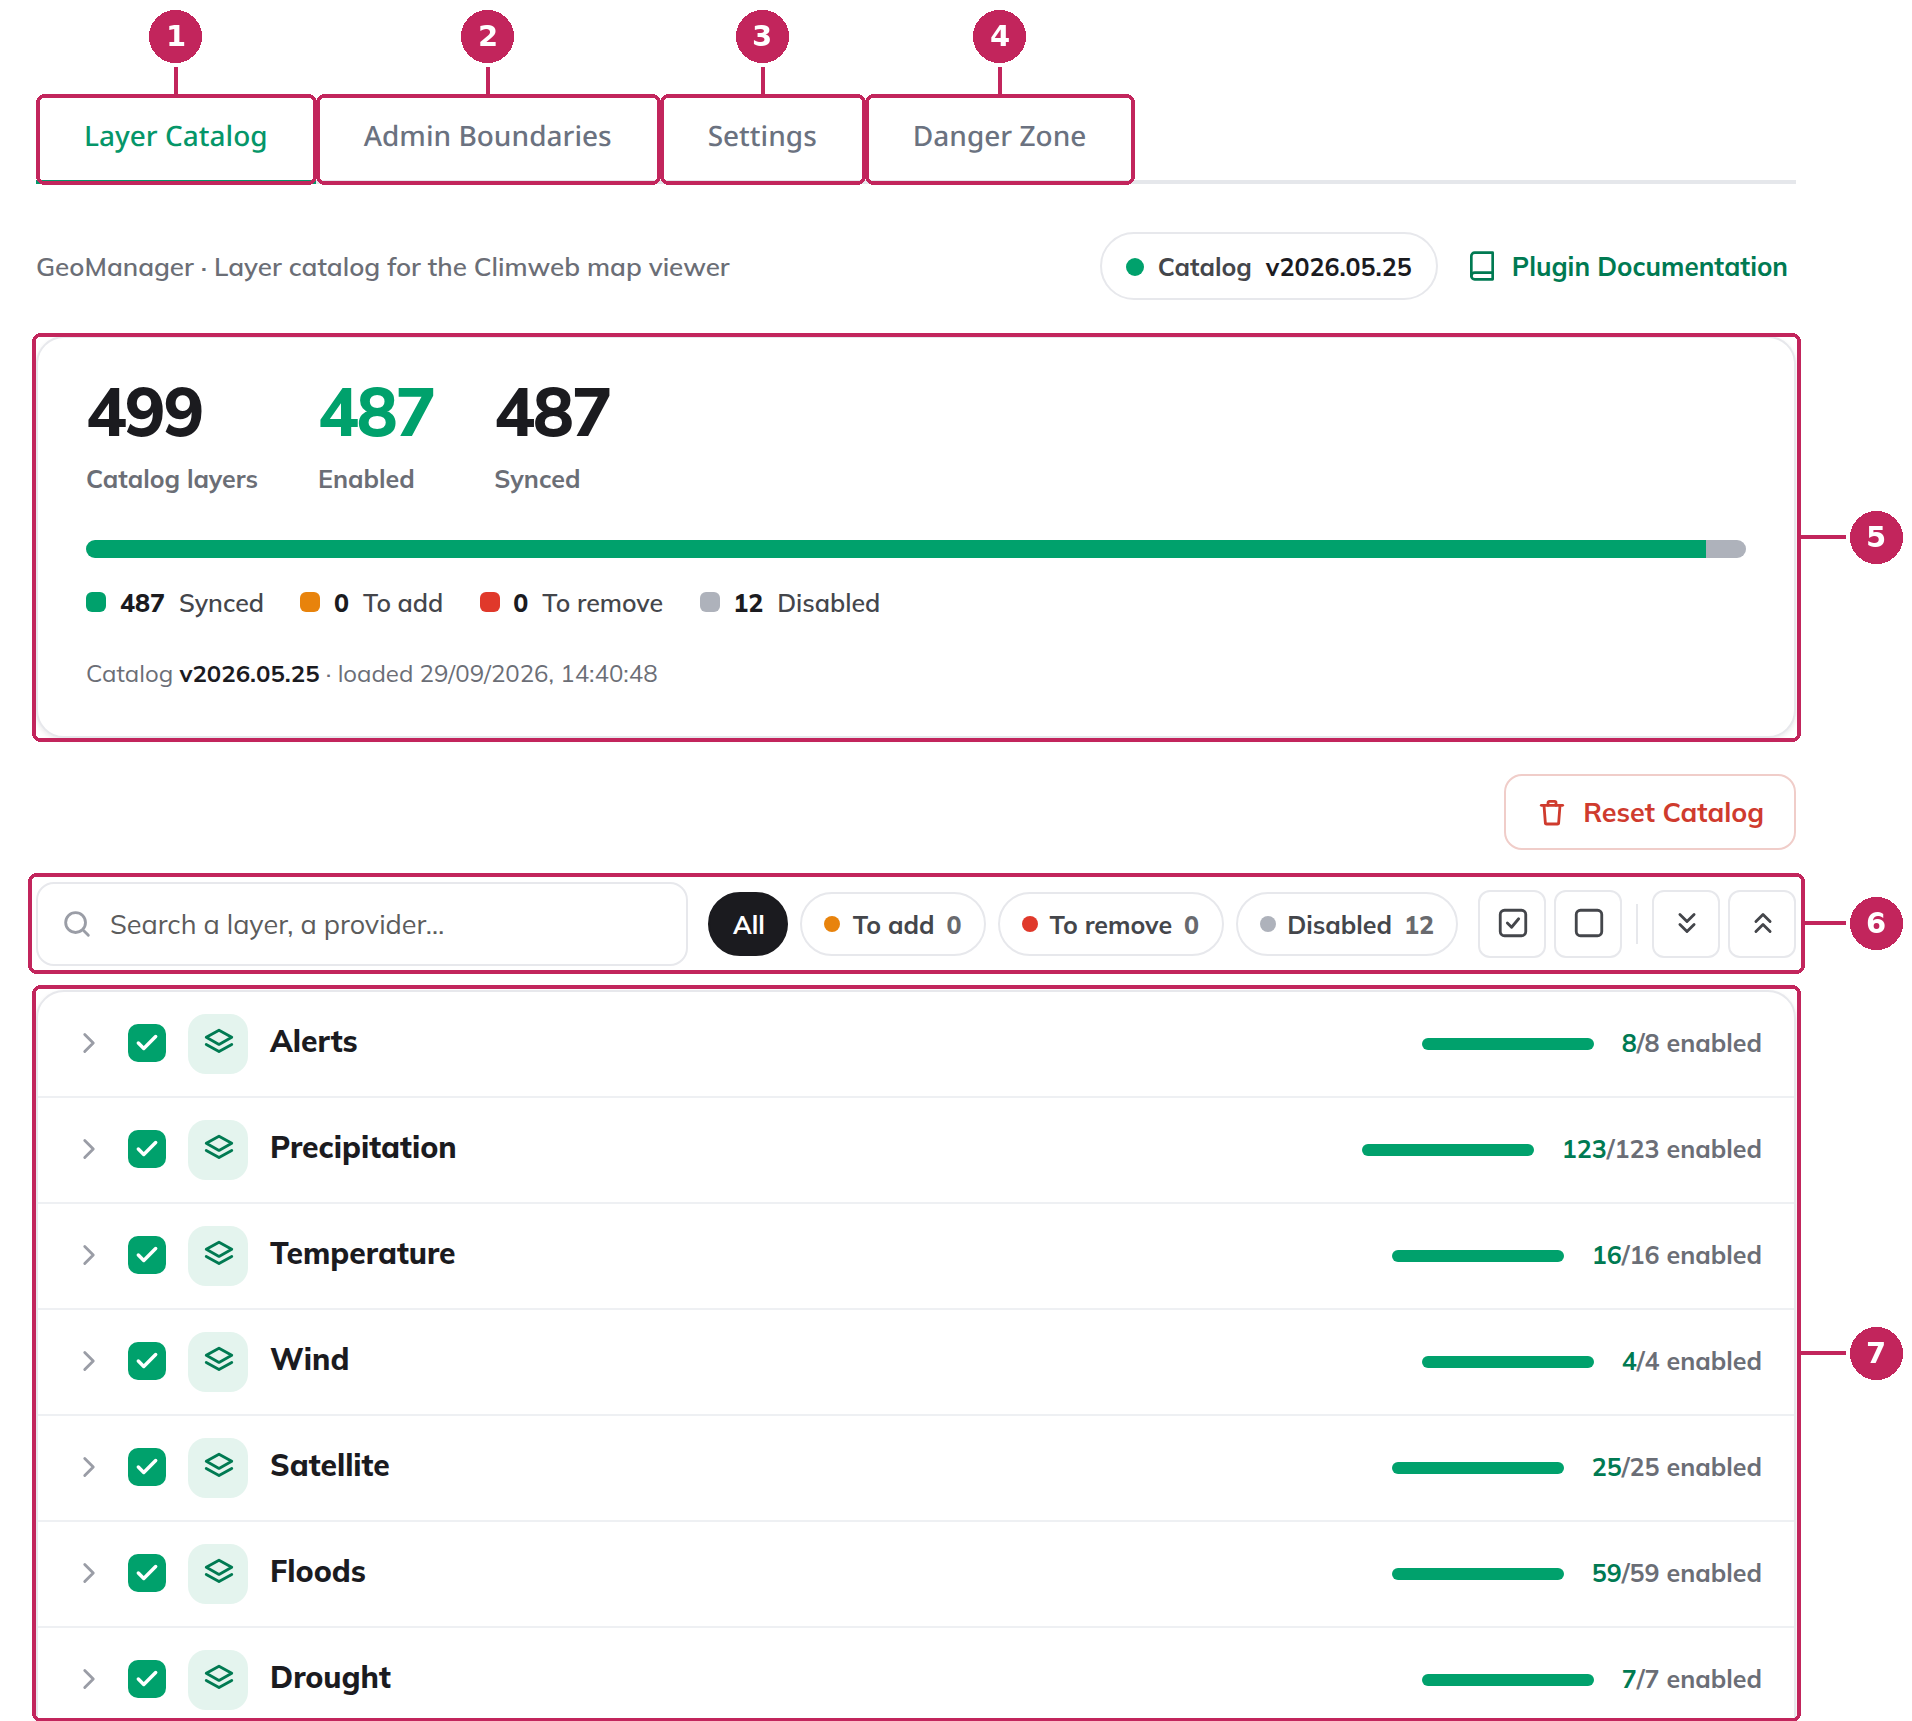
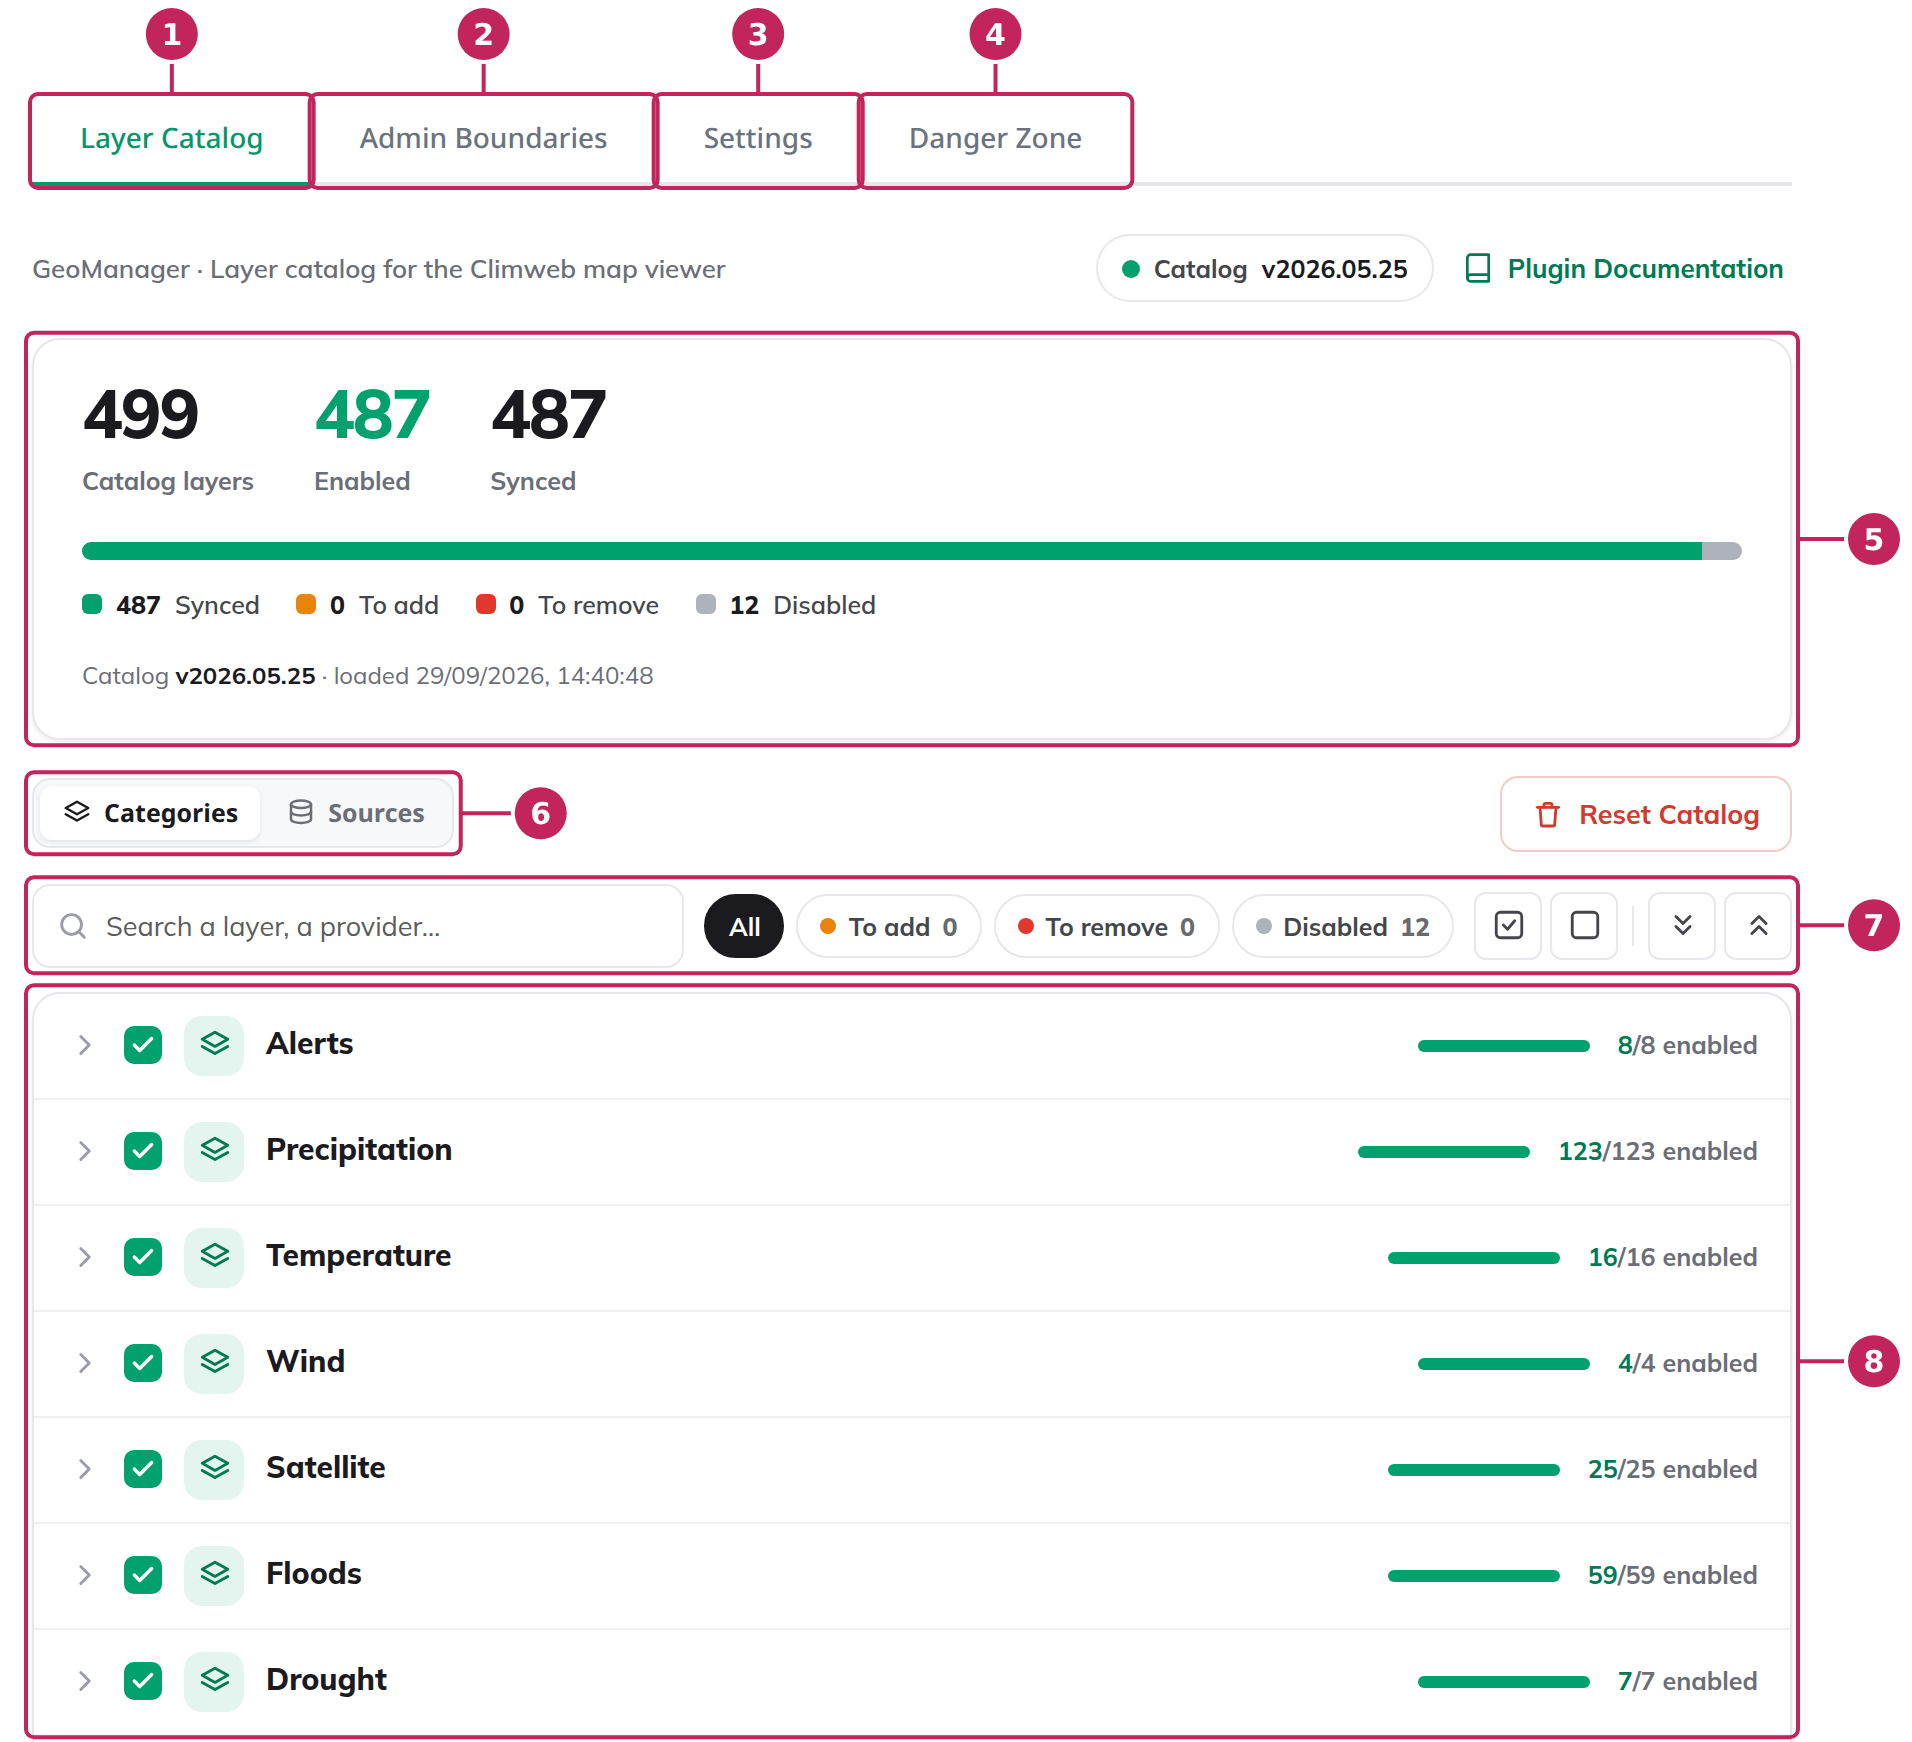
docs(dataset-helper): group the layer tree by data source (#948)
* doc: update dataset-helper with by source grouping

* doc: restore createsuperuser command in dev environment guide

---------

diff --git a/docs/_docs/dataset_helper/Layer-Catalog.md b/docs/_docs/dataset_helper/Layer-Catalog.md
@@ -57,7 +57,7 @@ Only a synchronization turns the orange and red statuses into green and grey.
 
 ## The layer tree
 
-The layers are organised in a tree of categories and sub-categories. In the MapViewer, each category becomes a theme and each sub-category a sub-theme. When the page opens, all the categories are collapsed.
+The layers are organised in a tree of categories and sub-categories. In the MapViewer, each category becomes a theme and each sub-category a sub-theme. When the page opens, all the categories are collapsed. You can also display the layers by data source, see [Group the layers by source](#group-the-layers-by-source).
 
 ![Layer tree](../../_static/images/dataset_helper/dataset_helper_tree.png "Layer tree")
 
@@ -116,21 +116,63 @@ Click a layer row to display its details. Click it again to close them.
 
 ---
 
+## Group the layers by source
+
+By default, the tree follows the categories of the catalog. To work on the layers of one data provider, for example all the EUMETSAT satellite images or the forecasts of one weather model, click **Sources** above the search bar: the tree then lists the data sources, each with all its layers, whatever their category.
+
+![Layers grouped by source](../../_static/images/dataset_helper/dataset_helper_sources.png "Layers grouped by source")
+
+**1. Categories / Sources**: displays the tree by category or by data source. Your choice is remembered in your browser.
+
+**2. Source**: click it to show or hide its layers.
+
+**3. Source checkbox**: checks or unchecks all the layers of the source at once, in all the categories. A dash means that only some of its layers are checked.
+
+**4. Source summary**: a small status bar with the colours of the [layer statuses](#layer-status), followed by the number of enabled layers of the source.
+
+| Source | Layers |
+| --- | --- |
+| **ECMWF** | Forecasts, extreme forecast indices and air quality (CAMS) of the European Centre for Medium-Range Weather Forecasts. |
+| **EFAS** | Flood forecasts and observations of the European Flood Awareness System (Copernicus Emergency Management Service). |
+| **EUMETSAT** | Satellite images and products, such as Meteosat, Metop or Sentinel-3. |
+| **GloFAS** | Flood forecasts of the Global Flood Awareness System. |
+| **JRC eStation** | The eStation products, such as rainfall estimates, vegetation indices, drought indices, fires or ocean products. |
+| **Open-Meteo** | The forecasts of the global weather models published by Open-Meteo, divided by weather model. |
+| **Other sources** | The layers of the other providers, such as WorldPop, Overture Maps or OurAirports, divided by provider. |
+
+### Weather models and providers
+
+**Open-Meteo** and **Other sources** are divided into sub-groups: one per weather model for Open-Meteo, one per provider for the other sources.
+
+![Open-Meteo weather models](../../_static/images/dataset_helper/dataset_helper_sources_models.png "Open-Meteo weather models")
+
+**1. Weather model**: click it to show or hide its layers. Its checkbox checks or unchecks all the layers of the model at once.
+
+**2. Category › sub-category**: in the Sources view, each layer shows its place in the catalog, which is the theme and the sub-theme where it is displayed in the MapViewer.
+
+In this example, the two layers of the *CAMS Global* model have just been checked and are waiting to be created (orange).
+
+```{note}
+The Sources view only changes how the tree is displayed. The layers keep their category and sub-category, and they are published in the same theme and sub-theme of the MapViewer, whichever view you used to check them.
+```
+
+---
+
 ## Search and filter
 
 The bar above the tree helps you find layers in a large catalog. Searching and filtering only change what is displayed: they do not change your selection.
 
 ![Search and filter](../../_static/images/dataset_helper/dataset_helper_filter.png "Search and filter")
 
-**1. Search**: type a few words to keep only the layers whose name, identifier, provider, category or sub-category matches. The matching categories and sub-categories are expanded automatically. Click the cross, or press **Esc**, to clear the search.
+**1. Search**: type a few words to keep only the layers whose name, identifier, provider, category, sub-category, source or weather model matches. The matching groups of the tree are expanded automatically. Click the cross, or press **Esc**, to clear the search.
 
 **2. Status filters**: **All** shows all the layers. **To add**, **To remove** and **Disabled** only show the layers with that [status](#layer-status), with their number. In this example, the **To add** filter shows the two layers that will be created at the next synchronization: a quick way to review your changes before synchronizing.
 
 **3. Select all layers / Deselect all layers**: checks or unchecks every layer of the catalog.
 
-**4. Expand all / Collapse all**: opens or closes all the categories and sub-categories.
+**4. Expand all / Collapse all**: opens or closes all the groups of the tree: the categories and sub-categories, or the sources and their sub-groups.
 
-When nothing matches the search or the filter, the tree shows *No layer matches your search*. When you clear them, the tree goes back to the categories you had expanded.
+When nothing matches the search or the filter, the tree shows *No layer matches your search*. When you clear them, the tree goes back to the groups you had expanded.
 
 ---
 
@@ -140,6 +182,7 @@ To choose the layers to publish, use the checkboxes of the tree:
 
 - the checkbox of a **layer** checks or unchecks this layer,
 - the checkbox of a **sub-category** or of a **category** checks or unchecks all its layers,
+- in the [Sources view](#group-the-layers-by-source), the checkbox of a **source**, of a **weather model** or of a **provider** checks or unchecks all its layers,
 - the **Select all layers** and **Deselect all layers** buttons of the [search bar](#search-and-filter) check or uncheck the whole catalog.
 
 Your selection is saved immediately, and the statuses are updated: a layer that you check becomes *To add*, a published layer that you uncheck becomes *To remove*. The MapViewer is not modified until you [synchronize with ClimWeb](#synchronize-with-climweb), so you can prepare all your changes before publishing them.

diff --git a/docs/_docs/dataset_helper/index.md b/docs/_docs/dataset_helper/index.md
@@ -40,9 +40,11 @@ The first time you open it, the Dataset Helper shows the **Settings** tab: the o
 
 **5. Catalog status**: the number of layers in the catalog, how many are enabled and how many are already published in ClimWeb. See [Catalog status](Layer-Catalog.md#catalog-status).
 
-**6. Search and filters**: find a layer by its name or provider, or show only the layers that are waiting for synchronization. See [Search and filter](Layer-Catalog.md#search-and-filter).
+**6. Categories / Sources**: displays the layer tree by category or by data source. See [Group the layers by source](Layer-Catalog.md#group-the-layers-by-source).
 
-**7. Layer tree**: the layers of the catalog, organised by category and sub-category, each with a checkbox to enable or disable it. See [The layer tree](Layer-Catalog.md#the-layer-tree).
+**7. Search and filters**: find a layer by its name or provider, or show only the layers that are waiting for synchronization. See [Search and filter](Layer-Catalog.md#search-and-filter).
+
+**8. Layer tree**: the layers of the catalog, organised by category and sub-category, each with a checkbox to enable or disable it. See [The layer tree](Layer-Catalog.md#the-layer-tree).
 
 ---
 
